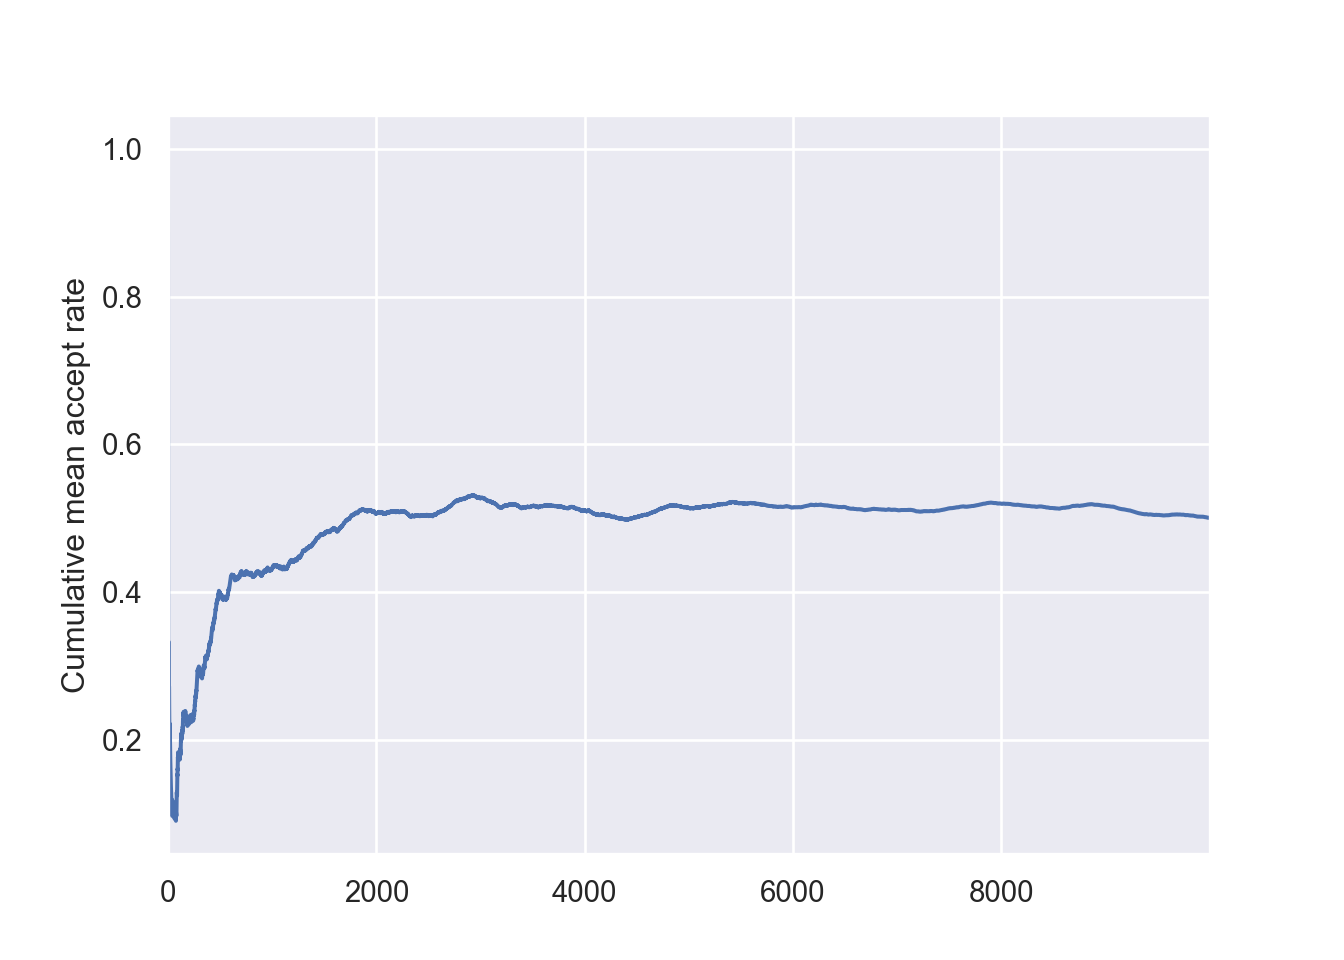
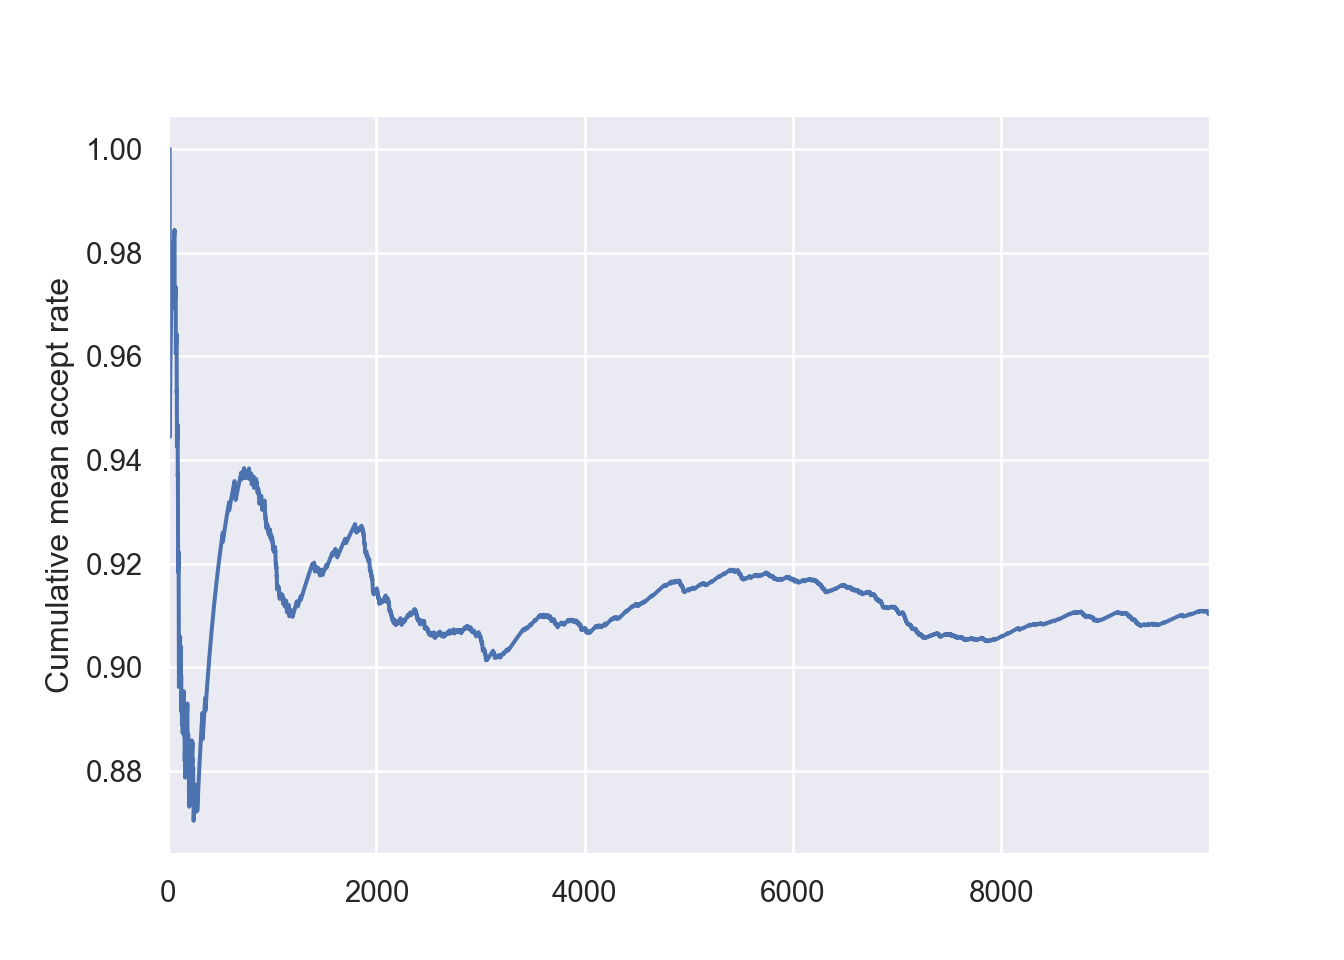
Corrected sign error in MCMC3

diff --git a/content/blog/2021-08-27-monte-carlo-3/index.html b/content/blog/2021-08-27-monte-carlo-3/index.html
@@ -79,13 +79,13 @@ plt.show()</code></pre>
   
 theta_contour_calc = partial(unnormalized_posterior, y=y_samples, sigma_y=sigma_y)</code></pre>
 <p>那么后验概率分布如下</p>
-<pre><code>## &lt;matplotlib.contour.QuadContourSet object at 0x7feb986f5630&gt;</code></pre>
+<pre><code>## &lt;matplotlib.contour.QuadContourSet object at 0x7f987ef09630&gt;</code></pre>
 <p><img src="{{< blogdown/postref >}}index_files/figure-html/unnamed-chunk-4-1.png" width="672" /></p>
 <p>由于MALA还需要对数概率分布的梯度，我们再定义对于上面问题的函数</p>
 <pre class="python"><code>def grad_log_posterior(q):
     q1, q2 = q[0], q[1]
-    dHdq1 = q1 - np.sum(y_samples - q1 - q2**2) / (sigma_y**2)
-    dHdq2 = q2 - 2 * q2 * np.sum(y_samples - q1 - q2**2) / (sigma_y**2)
+    dHdq1 = - q1 + np.sum(y_samples - q1 - q2**2) / (sigma_y**2)
+    dHdq2 = - q2 + 2 * q2 * np.sum(y_samples - q1 - q2**2) / (sigma_y**2)
     return np.array([dHdq1, dHdq2])</code></pre>
 <p>为了进行MALA采样，我们先定义一个后验概率的类。主要包含计算后验概率(<code>posterior</code>)和对数后验概率梯度(<code>grad_log_posterior</code>)的函数</p>
 <pre class="python"><code>class PosteriorProb:
